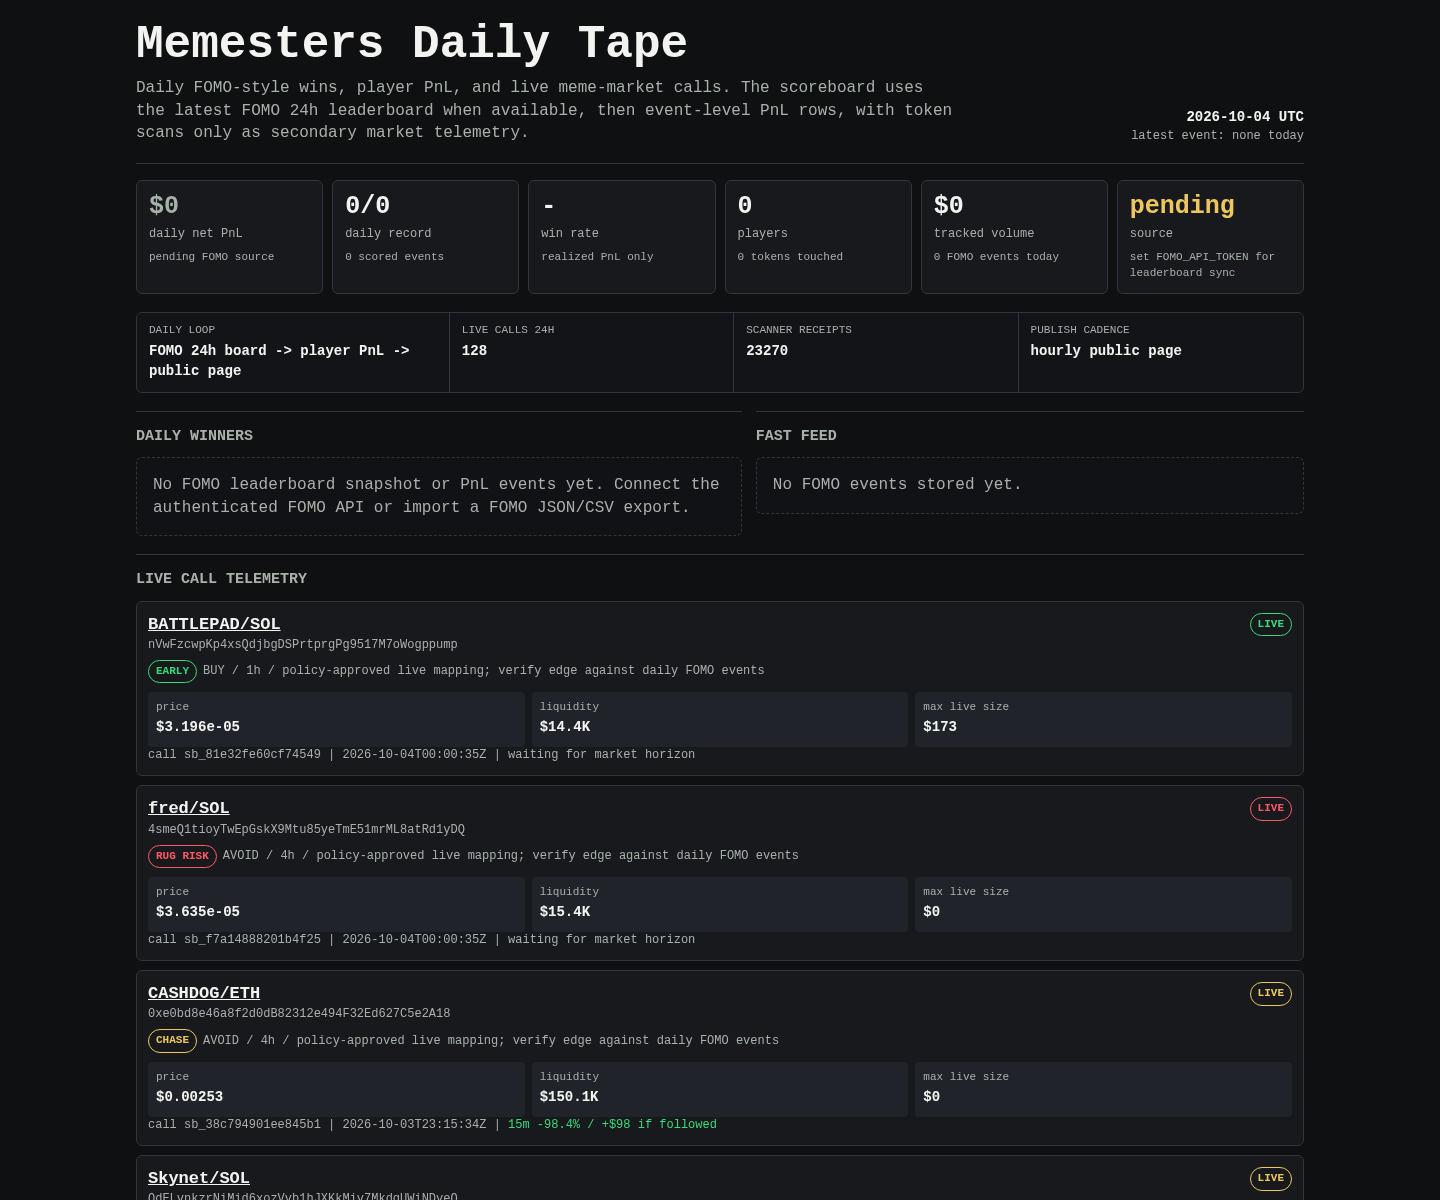
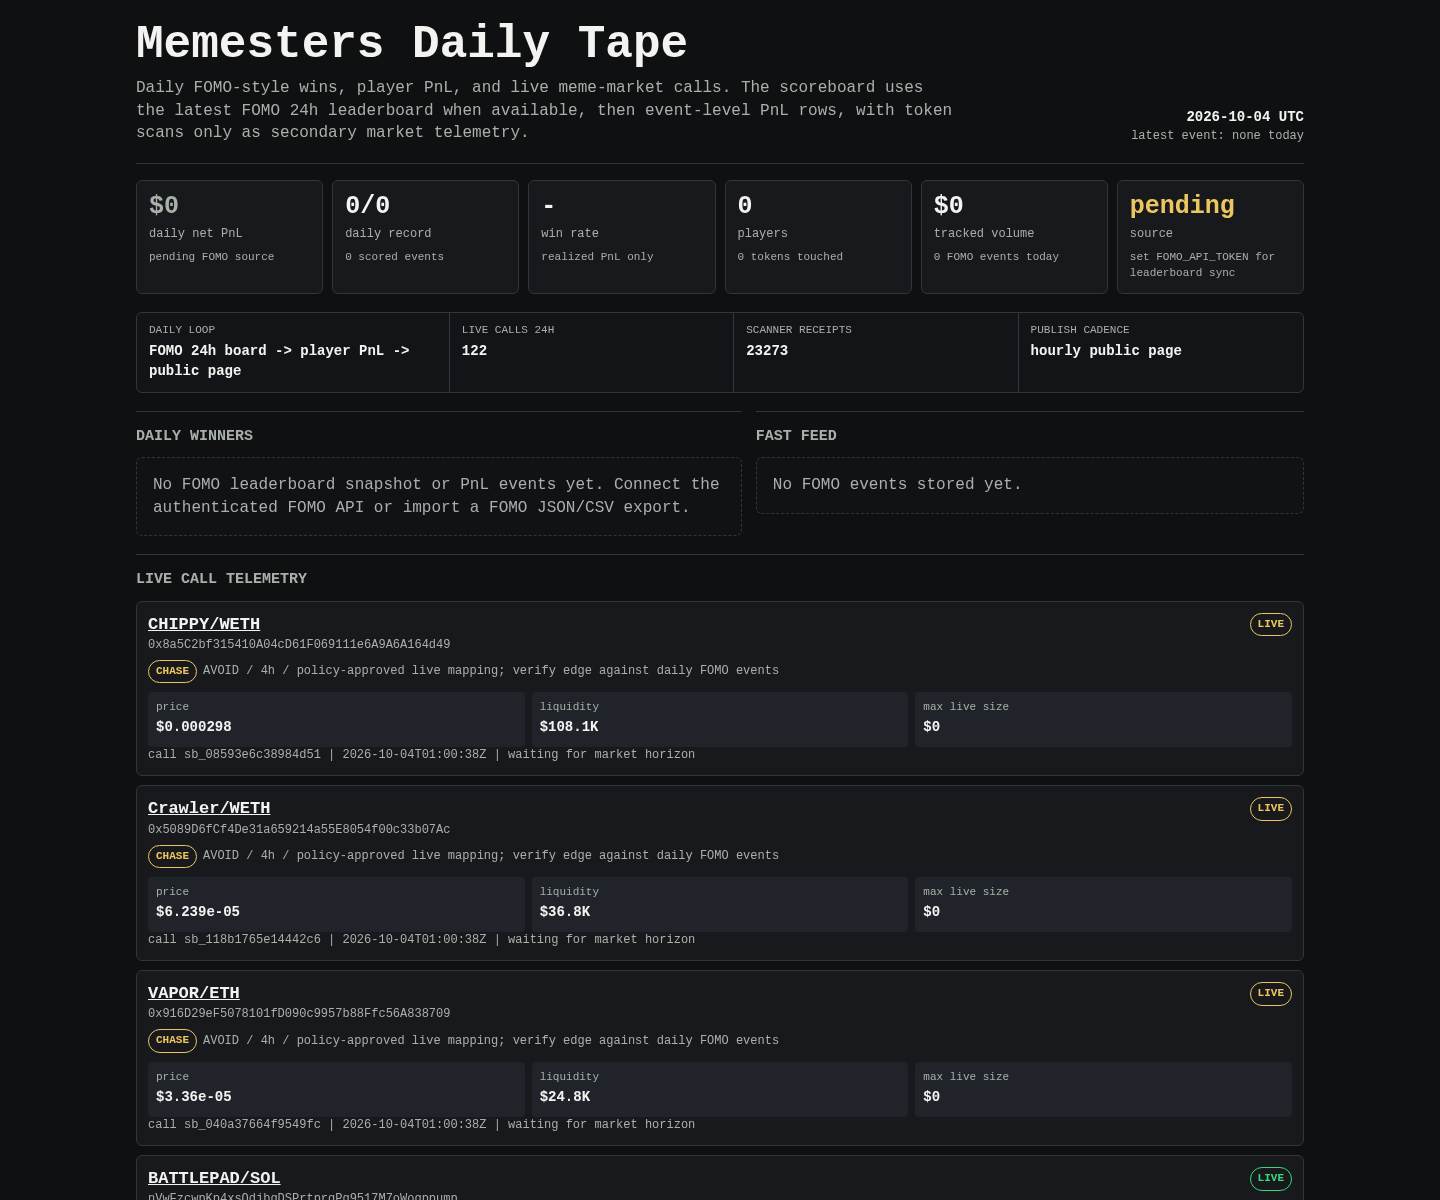
Update Memesters scoreboard

diff --git a/memesters/index.html b/memesters/index.html
@@ -149,8 +149,8 @@
 
     <div class="rail" aria-label="live operating loop">
       <div><span>daily loop</span><b>FOMO 24h board -> player PnL -> public page</b></div>
-      <div><span>live calls 24h</span><b>128</b></div>
-      <div><span>scanner receipts</span><b>23270</b></div>
+      <div><span>live calls 24h</span><b>122</b></div>
+      <div><span>scanner receipts</span><b>23273</b></div>
       <div><span>publish cadence</span><b>hourly public page</b></div>
     </div>
 
@@ -171,6 +171,69 @@
     <article class="receipt">
       <div class="receipt-head">
         <div>
+          <div class="pair"><a href="https://dexscreener.com/robinhood/0x3cb30dc01e60fe4452d5c6f39990cef0b325cc58">CHIPPY/WETH</a></div>
+          <div class="addr">0x8a5C2bf315410A04cD61F069111e6A9A6A164d49</div>
+          <div class="addr policy-line">
+            <span class="badge chase">CHASE</span>
+            <span>AVOID / 4h / policy-approved live mapping; verify edge against daily FOMO events</span>
+          </div>
+        </div>
+        <span class="badge chase">LIVE</span>
+      </div>
+      <div class="receipt-grid">
+        <div class="kv"><span>price</span><b>$0.000298</b></div>
+        <div class="kv"><span>liquidity</span><b>$108.1K</b></div>
+        <div class="kv"><span>max live size</span><b>$0</b></div>
+      </div>
+      <div class="outcomes">call sb_08593e6c38984d51 | 2026-10-04T01:00:38Z | waiting for market horizon</div>
+    </article>
+    
+
+    <article class="receipt">
+      <div class="receipt-head">
+        <div>
+          <div class="pair"><a href="https://dexscreener.com/robinhood/0x8a18364fc94a0ee4421427d4725b345f49f009fe">Crawler/WETH</a></div>
+          <div class="addr">0x5089D6fCf4De31a659214a55E8054f00c33b07Ac</div>
+          <div class="addr policy-line">
+            <span class="badge chase">CHASE</span>
+            <span>AVOID / 4h / policy-approved live mapping; verify edge against daily FOMO events</span>
+          </div>
+        </div>
+        <span class="badge chase">LIVE</span>
+      </div>
+      <div class="receipt-grid">
+        <div class="kv"><span>price</span><b>$6.239e-05</b></div>
+        <div class="kv"><span>liquidity</span><b>$36.8K</b></div>
+        <div class="kv"><span>max live size</span><b>$0</b></div>
+      </div>
+      <div class="outcomes">call sb_118b1765e14442c6 | 2026-10-04T01:00:38Z | waiting for market horizon</div>
+    </article>
+    
+
+    <article class="receipt">
+      <div class="receipt-head">
+        <div>
+          <div class="pair"><a href="https://dexscreener.com/ethereum/0xafb620f2d42c82d24865656fa3c566d65863dfa7709cb4a110858666ed0a4804">VAPOR/ETH</a></div>
+          <div class="addr">0x916D29eF5078101fD090c9957b88Ffc56A838709</div>
+          <div class="addr policy-line">
+            <span class="badge chase">CHASE</span>
+            <span>AVOID / 4h / policy-approved live mapping; verify edge against daily FOMO events</span>
+          </div>
+        </div>
+        <span class="badge chase">LIVE</span>
+      </div>
+      <div class="receipt-grid">
+        <div class="kv"><span>price</span><b>$3.36e-05</b></div>
+        <div class="kv"><span>liquidity</span><b>$24.8K</b></div>
+        <div class="kv"><span>max live size</span><b>$0</b></div>
+      </div>
+      <div class="outcomes">call sb_040a37664f9549fc | 2026-10-04T01:00:38Z | waiting for market horizon</div>
+    </article>
+    
+
+    <article class="receipt">
+      <div class="receipt-head">
+        <div>
           <div class="pair"><a href="https://dexscreener.com/solana/4xatypp1xasrldrhwg9kg3chybatsejqpt6havr2fzb1">BATTLEPAD/SOL</a></div>
           <div class="addr">nVwFzcwpKp4xsQdjbgDSPrtprgPg9517M7oWogppump</div>
           <div class="addr policy-line">
@@ -185,7 +248,7 @@
         <div class="kv"><span>liquidity</span><b>$14.4K</b></div>
         <div class="kv"><span>max live size</span><b>$173</b></div>
       </div>
-      <div class="outcomes">call sb_81e32fe60cf74549 | 2026-10-04T00:00:35Z | waiting for market horizon</div>
+      <div class="outcomes">call sb_81e32fe60cf74549 | 2026-10-04T00:00:35Z | <span class="negative">15m -88.0% / -$88 if followed</span></div>
     </article>
     
 
@@ -206,7 +269,7 @@
         <div class="kv"><span>liquidity</span><b>$15.4K</b></div>
         <div class="kv"><span>max live size</span><b>$0</b></div>
       </div>
-      <div class="outcomes">call sb_f7a14888201b4f25 | 2026-10-04T00:00:35Z | waiting for market horizon</div>
+      <div class="outcomes">call sb_f7a14888201b4f25 | 2026-10-04T00:00:35Z | <span class="positive">15m -79.8% / +$80 if followed</span></div>
     </article>
     
 
@@ -227,7 +290,7 @@
         <div class="kv"><span>liquidity</span><b>$150.1K</b></div>
         <div class="kv"><span>max live size</span><b>$0</b></div>
       </div>
-      <div class="outcomes">call sb_38c794901ee845b1 | 2026-10-03T23:15:34Z | <span class="positive">15m -98.4% / +$98 if followed</span></div>
+      <div class="outcomes">call sb_38c794901ee845b1 | 2026-10-03T23:15:34Z | <span class="positive">15m -98.4% / +$98 if followed</span> | <span class="positive">1h -99.9% / +$100 if followed</span></div>
     </article>
     
 
@@ -248,7 +311,7 @@
         <div class="kv"><span>liquidity</span><b>$19.9K</b></div>
         <div class="kv"><span>max live size</span><b>$0</b></div>
       </div>
-      <div class="outcomes">call sb_f5358a1c4d864f94 | 2026-10-03T23:15:34Z | <span class="negative">15m +4.9% / -$5 if followed</span></div>
+      <div class="outcomes">call sb_f5358a1c4d864f94 | 2026-10-03T23:15:34Z | <span class="negative">15m +4.9% / -$5 if followed</span> | <span class="positive">1h -47.9% / +$48 if followed</span></div>
     </article>
     
 
@@ -269,7 +332,7 @@
         <div class="kv"><span>liquidity</span><b>$59.5K</b></div>
         <div class="kv"><span>max live size</span><b>$0</b></div>
       </div>
-      <div class="outcomes">call sb_8c9319c7d44e475f | 2026-10-03T23:15:34Z | <span class="positive">15m -99.6% / +$100 if followed</span></div>
+      <div class="outcomes">call sb_8c9319c7d44e475f | 2026-10-03T23:15:34Z | <span class="positive">15m -99.6% / +$100 if followed</span> | <span class="positive">1h -99.6% / +$100 if followed</span></div>
     </article>
     
 
@@ -290,7 +353,7 @@
         <div class="kv"><span>liquidity</span><b>$15.1K</b></div>
         <div class="kv"><span>max live size</span><b>$0</b></div>
       </div>
-      <div class="outcomes">call sb_376525e70d544cdf | 2026-10-03T23:15:34Z | <span class="negative">15m +42.6% / -$43 if followed</span></div>
+      <div class="outcomes">call sb_376525e70d544cdf | 2026-10-03T23:15:34Z | <span class="negative">15m +42.6% / -$43 if followed</span> | <span class="negative">1h +7.4% / -$7 if followed</span></div>
     </article>
     
 
@@ -311,70 +374,7 @@
         <div class="kv"><span>liquidity</span><b>$9.8K</b></div>
         <div class="kv"><span>max live size</span><b>$0</b></div>
       </div>
-      <div class="outcomes">call sb_f462280cfb3a4720 | 2026-10-03T23:00:39Z | <span class="positive">15m -70.3% / +$70 if followed</span></div>
-    </article>
-    
-
-    <article class="receipt">
-      <div class="receipt-head">
-        <div>
-          <div class="pair"><a href="https://dexscreener.com/solana/4n7aapg72izhhfp7kpfzdmt3dgvaeomg8co6fseqdznf">CURE/SOL</a></div>
-          <div class="addr">64ZeHSFz9GDcZ3MBEZmXGv4z3uYfMyMsX7rD7UC7npKr</div>
-          <div class="addr policy-line">
-            <span class="badge rug-risk">RUG RISK</span>
-            <span>AVOID / 4h / policy-approved live mapping; verify edge against daily FOMO events</span>
-          </div>
-        </div>
-        <span class="badge rug-risk">LIVE</span>
-      </div>
-      <div class="receipt-grid">
-        <div class="kv"><span>price</span><b>$6.218e-06</b></div>
-        <div class="kv"><span>liquidity</span><b>$5.1K</b></div>
-        <div class="kv"><span>max live size</span><b>$0</b></div>
-      </div>
-      <div class="outcomes">call sb_f07c8a06ba7e49bd | 2026-10-03T23:00:39Z | <span class="positive">15m -23.3% / +$23 if followed</span></div>
-    </article>
-    
-
-    <article class="receipt">
-      <div class="receipt-head">
-        <div>
-          <div class="pair"><a href="https://dexscreener.com/solana/85td8tikddk7wbjhp8atirh3sgdembbg6v9ur38axffr">SAT/SOL</a></div>
-          <div class="addr">3DJ8Vw8iCbMxBYe9K7uRYNDoWSVXisV4wZSvPiGMpump</div>
-          <div class="addr policy-line">
-            <span class="badge early">EARLY</span>
-            <span>BUY / 1h / policy-approved live mapping; verify edge against daily FOMO events</span>
-          </div>
-        </div>
-        <span class="badge early">LIVE</span>
-      </div>
-      <div class="receipt-grid">
-        <div class="kv"><span>price</span><b>$3.52e-05</b></div>
-        <div class="kv"><span>liquidity</span><b>$15.1K</b></div>
-        <div class="kv"><span>max live size</span><b>$25</b></div>
-      </div>
-      <div class="outcomes">call sb_16ee3f8326c44a8d | 2026-10-03T23:00:39Z | <span class="negative">15m -0.7% / -$1 if followed</span></div>
-    </article>
-    
-
-    <article class="receipt">
-      <div class="receipt-head">
-        <div>
-          <div class="pair"><a href="https://dexscreener.com/solana/61xw4vm2ahziq2bqpthzynuhodzpj2tknynjhn4sjpmm">SPLICE/SOL</a></div>
-          <div class="addr">7bC8ugu1ZJn21MhA4ht483nX8brLNesa8R7XLimpFyhq</div>
-          <div class="addr policy-line">
-            <span class="badge early">EARLY</span>
-            <span>BUY / 1h / policy-approved live mapping; verify edge against daily FOMO events</span>
-          </div>
-        </div>
-        <span class="badge early">LIVE</span>
-      </div>
-      <div class="receipt-grid">
-        <div class="kv"><span>price</span><b>$6.021e-05</b></div>
-        <div class="kv"><span>liquidity</span><b>$20.6K</b></div>
-        <div class="kv"><span>max live size</span><b>$228</b></div>
-      </div>
-      <div class="outcomes">call sb_54481b71de4f4cac | 2026-10-03T23:00:39Z | <span class="negative">15m -69.1% / -$69 if followed</span></div>
+      <div class="outcomes">call sb_f462280cfb3a4720 | 2026-10-03T23:00:39Z | <span class="positive">15m -70.3% / +$70 if followed</span> | <span class="positive">1h -77.8% / +$78 if followed</span></div>
     </article>
     
     </section>
